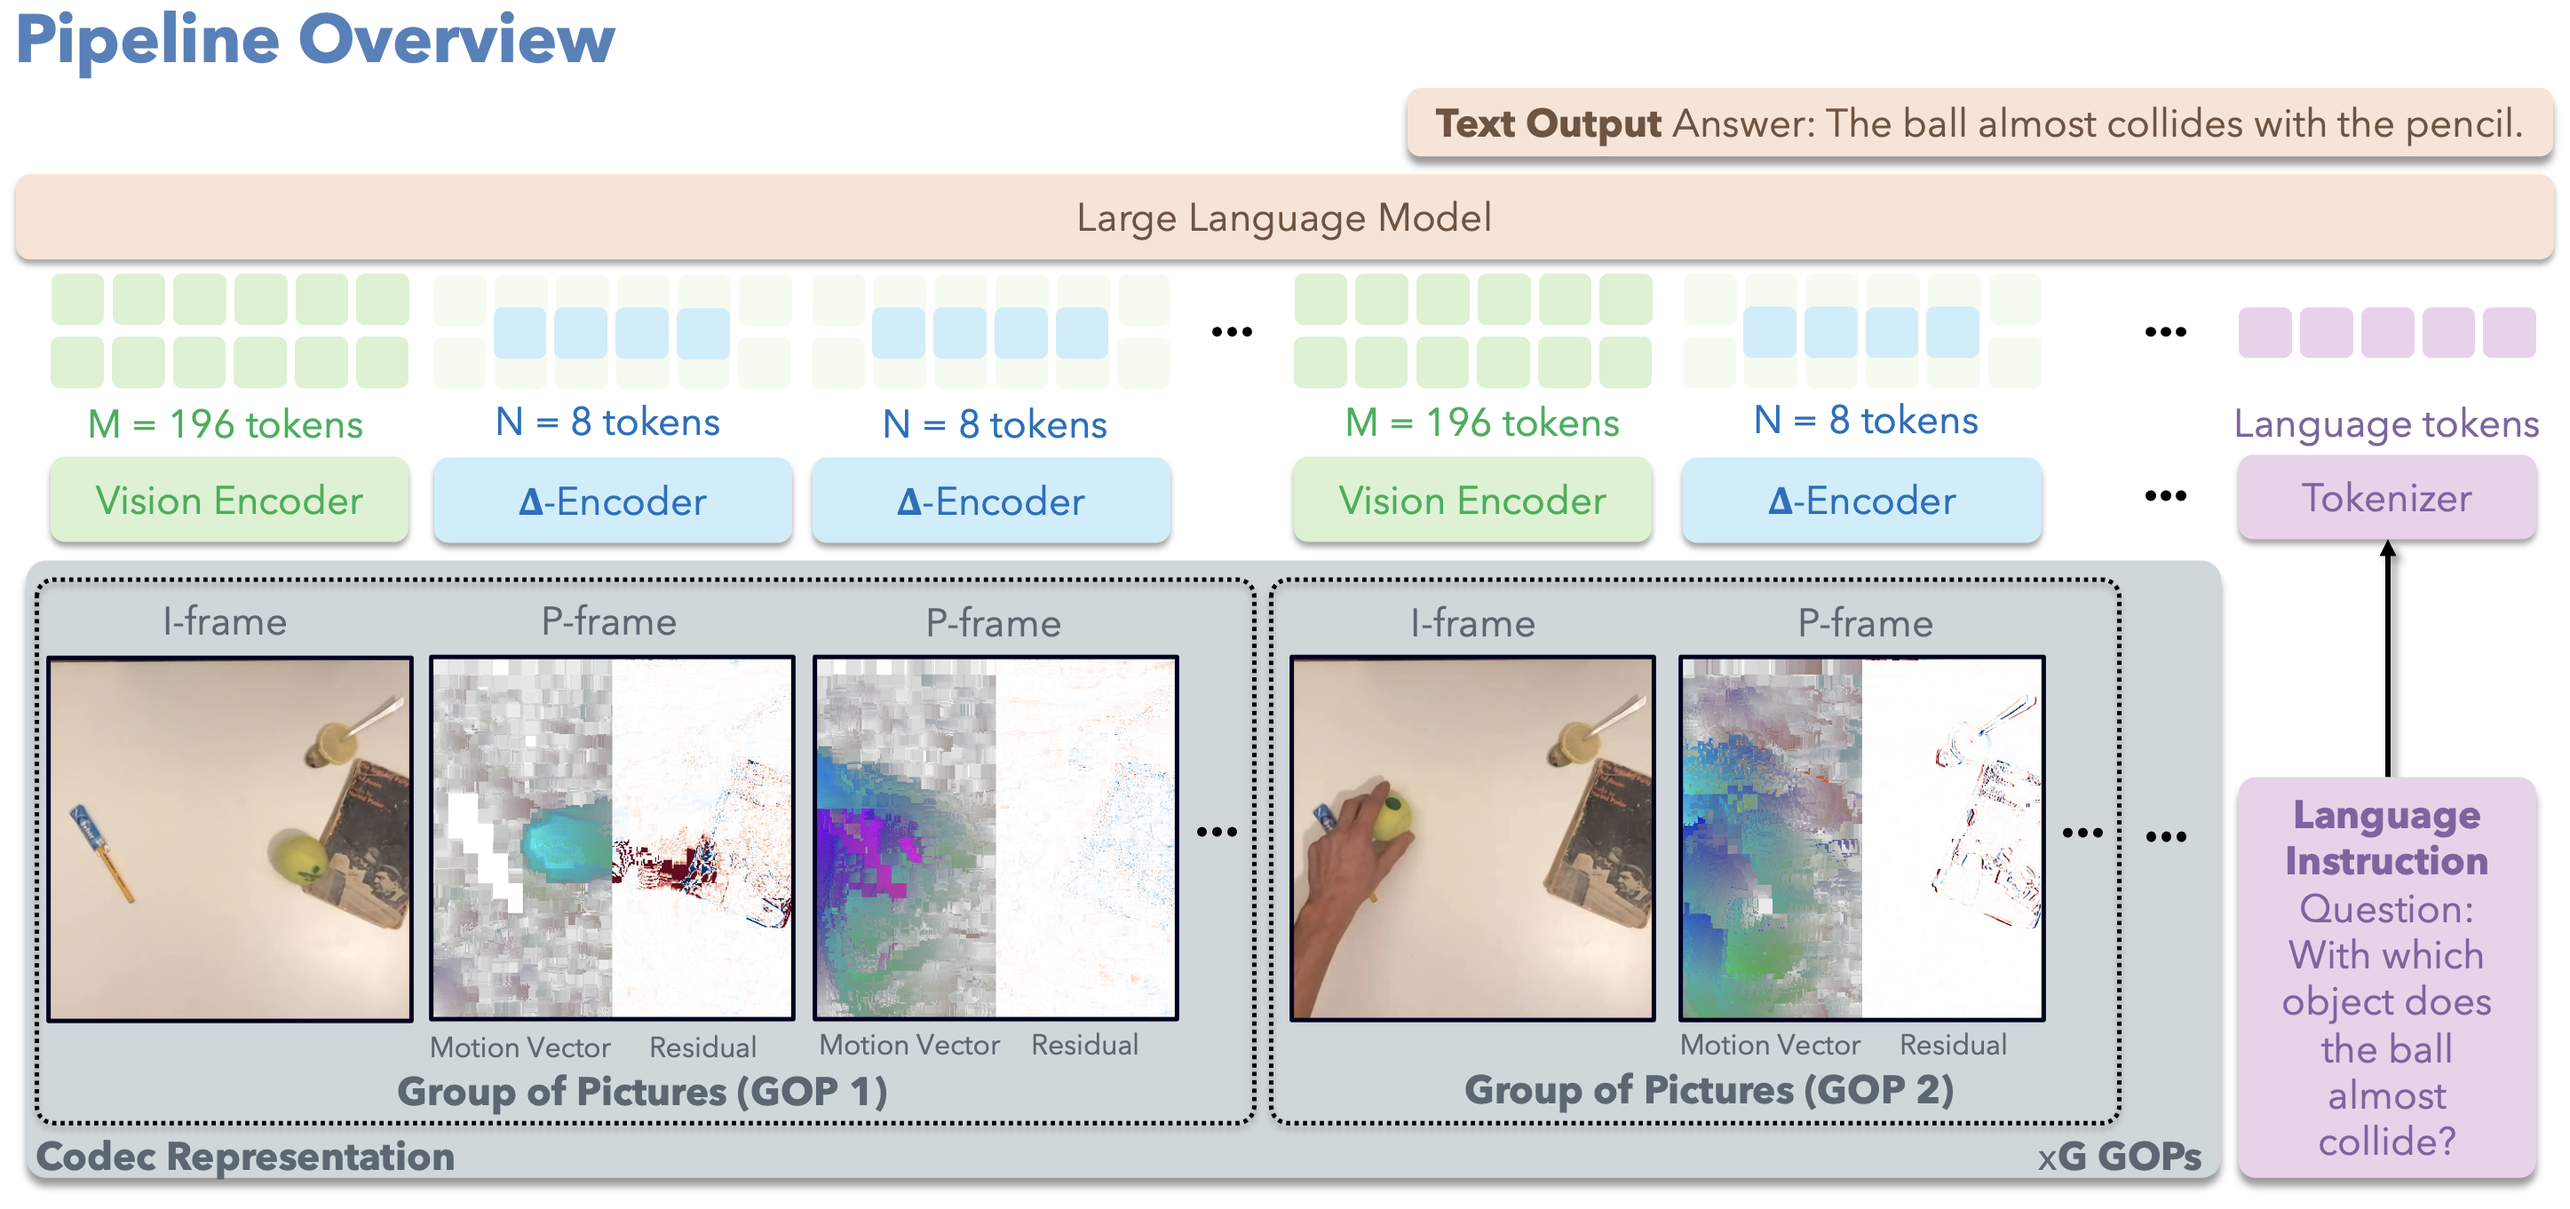
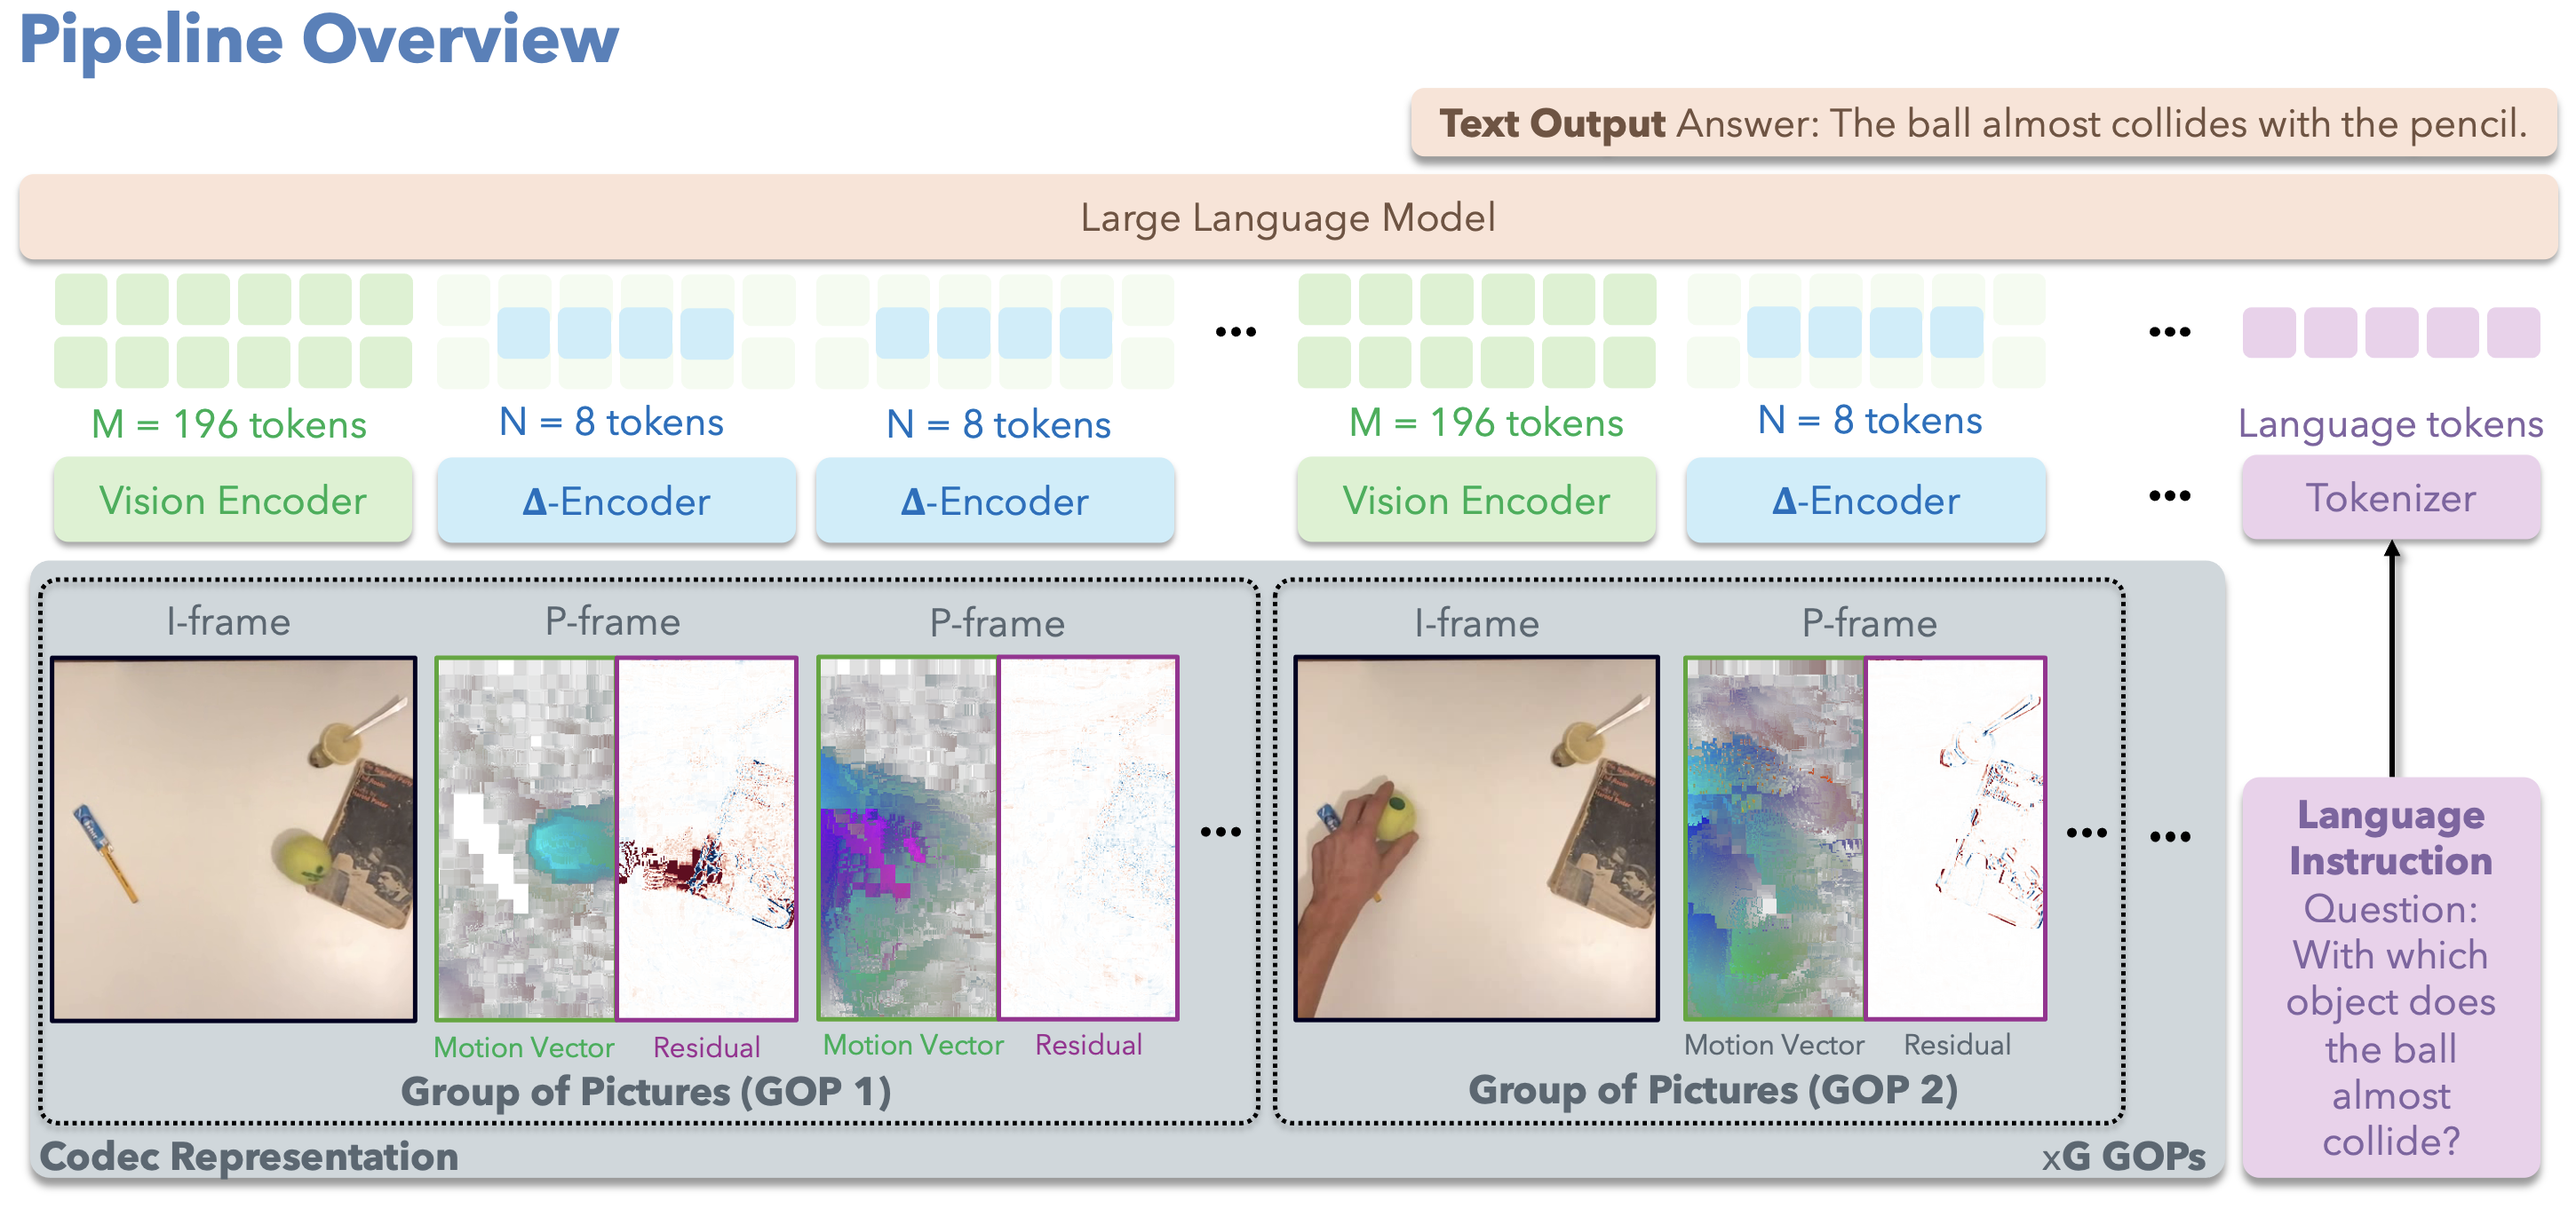
Updated color style

diff --git a/index.html b/index.html
@@ -77,8 +77,7 @@
                 Video Language Models (VideoLMs) empower AI systems to understand temporal dynamics in videos. To fit to the maximum context 
                 window constraint, current methods use keyframe sampling which can miss both macro-level events and micro-level details due to 
                 the sparse temporal coverage. Furthermore, processing full images and their tokens for each frame incurs substantial 
-                computational overhead. To address these limitations, we propose to leverage video codec primitives (specifically motion 
-                vectors and residuals) which natively encode video redundancy and sparsity without requiring expensive full-image encoding for 
+                computational overhead. To address these limitations, we propose to leverage video codec primitives (specifically <span class="term-motion-vector">motion vectors</span> and <span class="term-residual">residuals</span>) which natively encode video redundancy and sparsity without requiring expensive full-image encoding for 
                 most frames. To this end, we introduce lightweight transformer-based encoders that aggregate codec primitives and align their 
                 representations with image encoder embeddings through a pre-training strategy  that accelerates convergence during end-to-end 
                 fine-tuning. Our approach reduces the time-to-first-token by up to 86% and token usage by up to 93% compared to standard 
@@ -288,7 +287,7 @@
             <p>
                 Given a video in its raw codec representation, our framework leverages the GOP structure for efficient, codec-aware tokenization.
                 <i>I-frames</i> are processed by a standard frozen vision encoder (&phi;<sub>RGB</sub>) to produce dense RGB tokens.
-                <i>P-frames</i>, however, bypass full RGB decoding. Their raw components, motion vectors and residuals, are instead fed into our
+                <i>P-frames</i>, however, bypass full RGB decoding. Their raw components, <span class="term-motion-vector">motion vectors</span> and <span class="term-residual">residuals</span>, are instead fed into our
                 lightweight &Delta;-Encoder (&phi;<sub>&Delta;</sub>) to generate a small set of highly compact &Delta;-tokens. The final token stream,
                 an interleaved sequence of I-frame tokens and &Delta;-tokens, is consumed by the LLM, enabling dense temporal coverage at a fraction
                 of the standard token count and runtime.
@@ -300,7 +299,7 @@
                 </div>
                 <div class="delta-encoder-text">
                     <p>
-                        <b>&Delta;-Encoder</b> processes motion vectors and residuals through two lightweight branches designed to extract and compress codec-domain information. The resulting motion and residual tokens are concatenated to form the &Delta;-tokens used for P-frames, providing an efficient representation that is projected to the RGB token space during pre-training.
+                        <b>&Delta;-Encoder</b> processes <span class="term-motion-vector">motion vectors</span> and <span class="term-residual">residuals</span> through two lightweight branches designed to extract and compress codec-domain information. The resulting <span class="term-motion-vector">motion</span> and <span class="term-residual">residual</span> tokens are concatenated to form the &Delta;-tokens used for P-frames, providing an efficient representation that is projected to the RGB token space during pre-training.
                     </p>
                     <p style="margin-top: 10px;">
                         <b>Training Paradigm.</b> First, the &Delta;-Encoder is <i>pre-trained</i> to align its output with the frozen vision encoder. The resulting features are aligned with ground-truth image tokens via a patch-wise MSE loss, enforcing spatially consistent alignment across patches. After pre-training, the &Delta;-Encoder is integrated into the VideoLM for end-to-end fine-tuning &mdash; the reference-conditioned branches from pre-training are dropped, so no RGB reference frames are processed for P-frames. This yields a substantial compute and memory reduction while keeping the standard instruction tuning objective unchanged.

diff --git a/css/main.css b/css/main.css
@@ -1134,3 +1134,13 @@ video {
         margin: 0 8px;
     }
 }
+
+/* Codec terminology — motion vectors vs residuals (used in body copy) */
+.term-motion-vector {
+    color: #4EA72E;
+    font-weight: inherit;
+}
+.term-residual {
+    color: #A02B93;
+    font-weight: inherit;
+}
